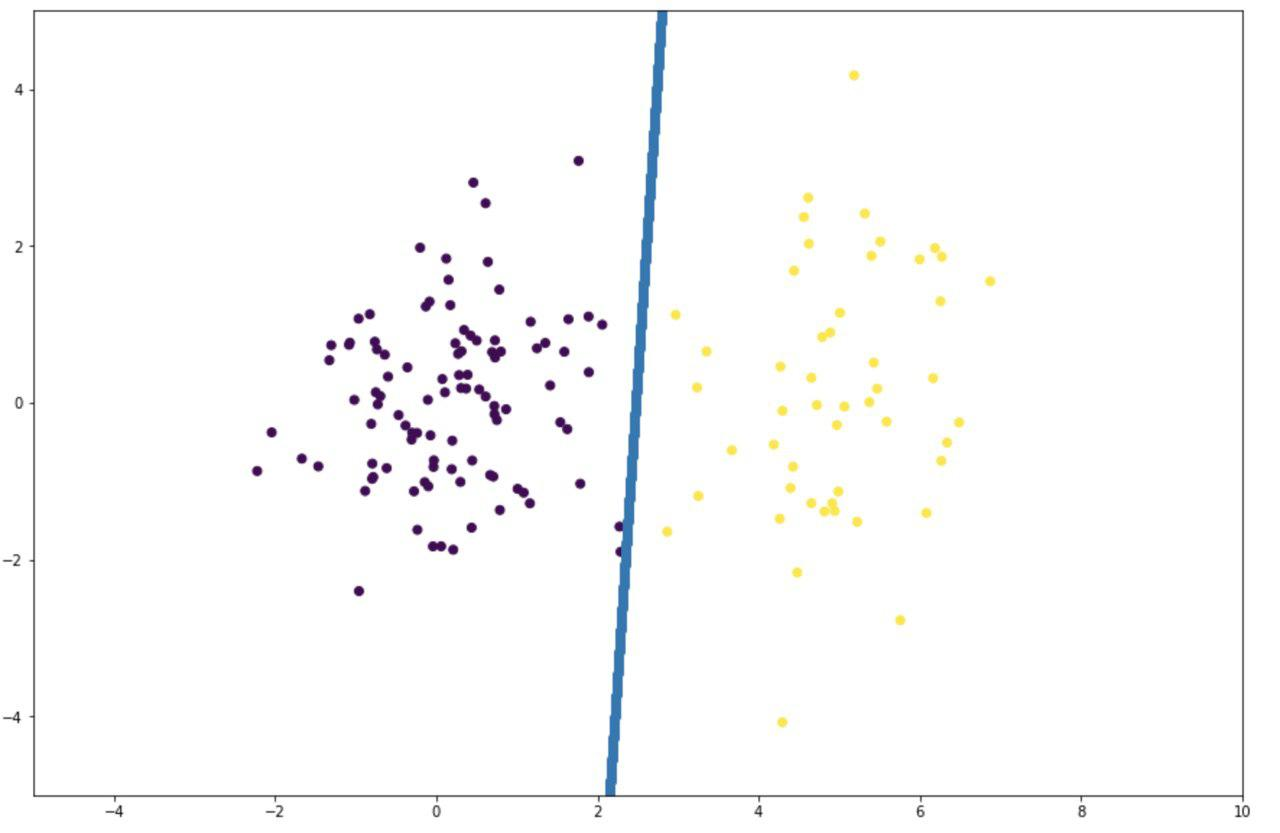
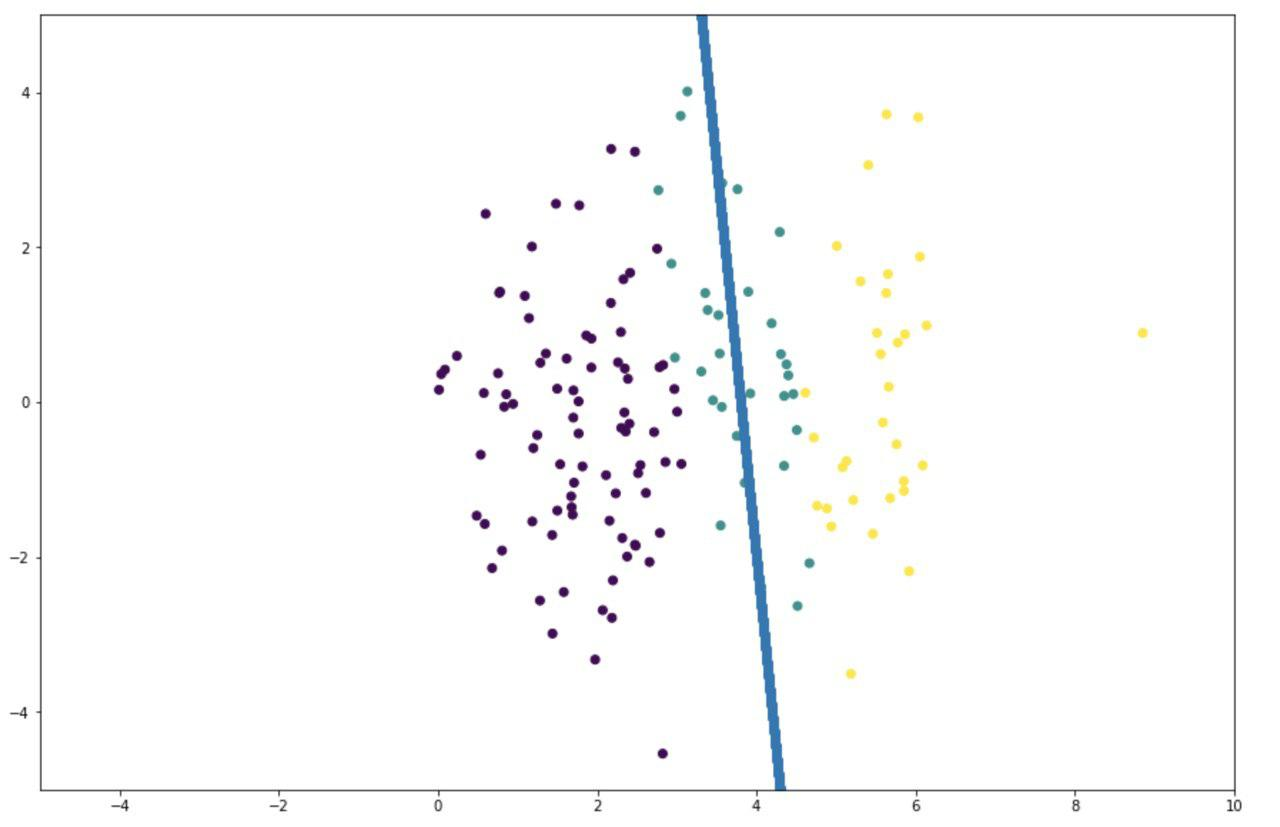
fix

diff --git a/Data.h b/Data.h
@@ -17,108 +17,67 @@ extern double TRAIN_Y[400] = {
 	1.,  1.,  1.,  1.,  1.,  1.,  1. };
 
 
-extern double TRAIN_X[2][400] = {
-	{
-		-8.30591446e-01, 7.84147636e-01, 3.77222025e-01,
-		-1.33008606e-01, 1.50964796e+00, -4.42049826e-01,
-		-5.14214505e-01, -5.23184228e-01, 2.65309673e+00,
-		1.27395254e+00, -1.48167542e-01, 1.02688355e+00,
-		1.79373581e+00, -1.46027507e+00, 8.01607174e-01,
-		5.02908477e-01, -2.91226662e-01, -5.89099046e-01,
-		1.19454835e+00, 4.67141420e-01, 6.09390872e-01,
-		9.59004860e-01, -8.85639159e-01, 4.98823189e-01,
-		9.23423580e-01, -2.03558021e-01, 3.80704882e-01,
-		4.96000968e-01, -2.10968227e-02, 9.34080155e-02,
-		-9.49819723e-01, 8.29848915e-01, 8.49449486e-02,
-		-3.76506473e-01, -1.28051612e-01, 1.15032618e+00,
-		-1.71991195e+00, -2.12675992e-01, -8.42039036e-01,
-		-2.50690343e-01, 9.41196439e-01, -1.03945512e+00,
-		1.18226247e+00, -2.23635992e+00, -6.27689764e-01,
-		-5.72366712e-01, -1.41399179e+00, 6.69032916e-01,
-		1.47386062e+00, 8.86742502e-01, -7.98105145e-01,
-		-3.16875705e-01, 2.74445899e-01, 4.69675540e-01,
-		-1.32025476e+00, 2.02484866e+00, -5.17184102e-01,
-		-6.87191607e-01, -4.30377071e-01, -1.81905480e+00,
-		-5.40659125e-01, -2.95864862e-01, -7.61067074e-01,
-		-8.93473091e-01, 4.11839291e-01, 1.04810438e+00,
-		1.01396007e+00, 1.12110443e-01, -1.47611967e-01,
-		1.02720691e+00, 4.57994934e-01, -1.14644299e+00,
-		-1.40803083e-01, -1.35461602e+00, -1.23667830e+00,
-		6.69317578e-02, 3.49209247e-01, 7.75785090e-01,
-		7.85287391e-01, -1.31696435e-01, -5.35533064e-01,
-		1.00498626e+00, 7.16264017e-01, -1.76689953e-01,
-		1.08906062e-01, -5.21399426e-01, 8.59116746e-01,
-		1.96384326e+00, 1.25273460e+00, -6.56440997e-01,
-		-1.26115706e+00, -6.31665043e-01, 1.08242757e-01,
-		-6.31729586e-01, -1.99675410e+00, -2.38223340e-01,
-		-6.02844255e-01, -8.88733866e-01, 1.54579108e+00,
-		8.29120056e-01, 3.47865219e+00, 4.39295920e+00,
-		4.78706321e+00, 3.43950916e+00, 3.93654531e+00,
-		5.16449764e+00, 3.87193362e+00, 4.92878000e+00,
-		6.01522028e+00, 5.11461585e+00, 5.57836071e+00,
-		3.24042779e+00, 5.06898085e+00, 4.25556027e+00,
-		4.26287598e+00, 5.97550638e+00, 5.54713731e+00,
-		5.13605771e+00, 6.96534066e+00, 5.11871576e+00,
-		4.37135065e+00, 4.82980173e+00, 4.75365627e+00,
-		3.39689602e+00, 4.46280141e+00, 3.69873147e+00,
-		4.78774472e+00, 4.17114977e+00, 3.60755093e+00,
-		4.83418133e+00, 4.49328651e+00, 4.91565567e+00,
-		4.70807830e+00, 4.74982945e+00, 5.01687558e+00,
-		4.49006277e+00, 4.92226974e+00, 6.22488508e+00,
-		5.02561621e+00, 4.90115420e+00, 4.77562057e+00,
-		6.13244202e+00, 6.05955308e+00, 4.63325810e+00,
-		5.99589907e+00, 5.61549582e+00, 5.55987656e+00,
-		6.52949334e+00, 2.73699878e+00, 4.04351096e+00 },{
-			-9.53332926e-01, -4.48465156e-02, -1.43123917e-01,
-			-5.35187418e-01, -3.31959102e-01, -3.87086926e-01,
-			-1.92707956e+00, -3.60527800e-01, 2.01113710e-01,
-			-3.53562115e-01, -1.47613346e+00, -8.74980542e-01,
-			-7.52933344e-02, 5.62007112e-01, 7.18544813e-01,
-			-1.39021210e+00, 1.46340358e+00, -5.15564533e-01,
-			-6.06729037e-01, -1.11438097e+00, 8.05169771e-02,
-			-7.79944085e-03, 1.52770603e+00, 1.15237701e+00,
-			-6.90617165e-01, 1.43459276e+00, 1.01657993e+00,
-			7.23608764e-01, -4.70862790e-01, -1.17075912e+00,
-			7.62976181e-02, -1.44476252e+00, -4.62138635e-01,
-			1.43153235e-01, 5.36447853e-02, 3.25006164e+00,
-			2.28511735e+00, 6.97242804e-02, -8.96889552e-01,
-			4.29534112e-01, 6.20523532e-01, 5.00887707e-01,
-			2.45196184e-01, -3.81910813e-02, -6.02717131e-01,
-			-6.16793306e-01, 2.76128941e-01, -3.60765062e-01,
-			-6.39519542e-01, -1.05992244e-01, 2.74030188e-01,
-			1.67326201e+00, -1.53086084e+00, 1.46563088e-01,
-			-9.35173593e-01, -2.36665757e-01, 2.25262842e-01,
-			-1.14894456e+00, 5.16666615e-01, 9.53415590e-01,
-			-1.50352073e-01, -1.20104253e+00, -2.68114199e-01,
-			-4.78919593e-01, 2.79146409e-01, -2.23715075e-01,
-			-1.97800733e-01, 6.30381785e-03, 9.07111219e-01,
-			-1.23446961e+00, -4.39213402e-01, 1.80332120e+00,
-			-8.84470413e-01, 7.44687153e-02, 8.02818841e-03,
-			6.52982542e-01, 5.36928894e-01, 2.93617033e-01,
-			-8.40178867e-01, 2.40103428e-01, 1.39675393e+00,
-			-5.73710642e-01, 2.03617721e+00, -3.60470182e-01,
-			-1.54404476e+00, -6.85070900e-01, 6.88030831e-01,
-			-1.20092682e+00, -7.05950589e-01, -1.08640672e+00,
-			-1.22171553e+00, -1.97405146e+00, 8.37238918e-01,
-			1.82271822e-01, 9.47209826e-01, -1.06456332e+00,
-			7.32170791e-01, -9.37128061e-01, -2.25221481e-01,
-			-1.77957095e+00, -1.44823489e+00, -2.95770401e-01,
-			1.13300927e-03, -9.59403325e-01, -3.98144352e-01,
-			1.50800457e+00, 6.47717971e-01, -1.76663043e+00,
-			-3.26754263e+00, 1.81665105e+00, -1.08934820e+00,
-			2.34412502e+00, -8.54501847e-01, -4.51392056e+00,
-			1.27176788e-01, 6.45330733e-01, 7.77669423e-01,
-			2.57254464e-01, -2.39062232e+00, -1.51341885e+00,
-			-5.77864619e-01, 1.67288500e+00, -2.97927339e+00,
-			1.90958088e+00, 1.18167151e+00, -9.24501944e-01,
-			3.47118559e-01, 2.19893389e-01, 2.59239184e+00,
-			-3.64755227e+00, -1.83100709e+00, 3.12315569e+00,
-			1.04657472e+00, 1.23521016e+00, 2.52841213e+00,
-			-1.13352001e+00, 1.73319250e+00, -4.62813044e-01,
-			6.75820022e-01, -4.14624088e-01, -1.87252140e+00,
-			-1.45467315e+00, -3.35333767e+00, -1.66331135e+00,
-			-1.41224244e-01, -9.63151988e-01, 1.54184888e+00,
-			-6.99436570e-01, -4.01239327e-01, 1.82411628e-01 } };
+extern double TRAIN_X[2][400] = 
+{ {1.8617357, 3.52302986, 1.76586304, 2.76743473, 2.54256004,
+1.53427025, 0.08671976, 1.43771247, 2.31424733, 0.5876963,
+1.7742237, 0.57525181, 2.11092259, 2.37569802, 1.70830625,
+3.85227818, 0.94228907, 0.77915635, 0.04032988, 2.19686124,
+2.17136828, 1.6988963, 1.28015579, 3.05712223, 0.23695984,
+1.61491772, 2.61167629, 2.93128012, 1.69078762, 2.97554513,
+1.81434102, 0.80379338, 3.35624003, 3.0035329, 1.35488025,
+3.53803657, 3.56464366, 2.8219025, 1.70099265, 0.01243109,
+2.35711257, 1.48172978, 1.49824296, 2.32875111, 2.51326743,
+2.96864499, 1.67233785, 0.53648505, 2.26105527, 1.76541287,
+1.57935468, 1.19772273, 2.40405086, 2.17457781, 1.92555408,
+1.97348612, 4.46324211, 2.30154734, 0.83132196, 2.75193303,
+1.09061255, 0.59814894, 4.19045563, 1.43370227, 1.49652435,
+2.06856297, 2.47359243, 3.54993441, 1.67793848, 0.76913568,
+3.30714275, 2.18463386, 2.78182287, 0.67954339, 2.29698467,
+2.34644821, 2.2322537, 1.28564858, 2.47383292, 2.65655361,
+2.7870846, 1.17931768, 2.41278093, 3.89679298, 1.24626384,
+1.18418972, 2.34115197, 2.82718325, 3.45353408, 4.72016917,
+1.14284244, 2.48247242, 2.71400049, 1.92717109, 0.48515278,
+2.85639879, 0.75426122, 2.38531738, 2.15372511, 0.8570297,
+5.56078453, 6.05380205, 4.06217496, 5.51378595, 8.85273149,
+6.13556564, 5.65139125, 5.75896922, 4.76318139, 5.08187414,
+3.13273481, 3.38728413, 6.0889506, 3.92225522, 5.67959775,
+5.21645859, 4.34839965, 5.63391902, 5.18645431, 5.85243333,
+4.88526356, 5.86575519, 4.66549876, 4.34667077, 5.40498171,
+5.91786195, 6.03246526, 4.51576593, 4.29233053, 5.77463405,
+4.94047464, 3.97561236, 3.75221682, 3.56985862, 5.13074058,
+3.56413785, 5.01023306, 5.46210347, 4.39978312, 4.6146864,
+5.66213067, 3.7621845, 3.0479122, 5.58831721, 4.37730048,
+4.50699907, 5.8496021, 4.3070904, 5.30729952, 5.62962884},
+{0.86033415, 1.12182946, -0.40556554, 2.73527683, -0.81315349,
+-0.80266299, 0.41909095, -2.98764532, -1.75427496, -1.57274383,
+2.53857813, 0.11696228, -0.94289854, -1.99357936, -1.04033673,
+-1.04218642, -0.02337788, 1.42468958, 0.36176236, -2.30048572,
+1.27906164, -0.2003087, -2.56087521, -0.79784976, 0.59516434,
+0.5613299, -1.1724633, 1.78574356, -1.45356739, 0.57376509,
+-0.82995413, -1.91622839, 1.40733601, -0.12472519, 0.62637197,
+0.62595555, -0.06205252, -4.53753162, 0.15076994, 0.15893433,
+-0.38048287, 2.55978757, -1.400352, 1.58552298, -0.91757159,
+0.16814325, -1.21599163, -0.67915124, 0.51289537, 0.00885677,
+-2.45149404, -0.59359896, -0.27935505, 3.26696981, 0.44609036,
+-3.32340923, 0.10432178, -0.33317896, -0.06012255, 1.97942718,
+1.37010752, 2.42971102, 1.0164663, -1.71565924, 0.17260123,
+-2.68582785, -1.83996401, -1.59248949, -1.3566345, 1.40905315,
+0.39397216, -2.78424263, 0.4501302, -2.14246148, 0.90402931,
+0.43386634, -1.17783737, 0.50761641, 3.23161625, -2.06339818,
+-1.68819817, 2.00674641, 1.6686164, 1.42384996, -0.42502468,
+-1.54068419, -0.13354408, 0.47924252, 0.02251994, -0.45839908,
+1.08368763, -1.85484022, -0.3870489, 0.81967161, -1.46668974,
+-0.77338658, 0.37082124, 0.29995816, -1.53088599, 0.10082046,
+0.61970589, 1.87589978, -2.38619334, 0.89206725, 0.89208876,
+0.98881137, 1.65237952, -0.54606235, -1.33857254, -0.84067432,
+4.00910624, 1.18863752, -0.81740997, 0.11133626, -1.23894237,
+-1.26503211, 0.07893274, 3.71342009, -3.50764985, -1.14624778,
+-1.37268619, 0.87466362, -2.07897436, -0.82262941, 3.05785644,
+-2.18391507, 3.67568235, -2.63162598, 2.19435448, 0.7687178,
+-1.60549067, -5.61403971, -0.43746087, 2.82741932, -0.76217941,
+2.49635856, 2.01465872, -1.70002285, 0.34478151, 0.12090076,
+0.19661781, 2.74706171, 3.69452218, -0.2628995, 0.48669219,
+-0.36047831, -1.0208097, 0.61836896, 1.55815269, 1.40791849} };
 
 
 NN::CMatrix trainX_to_matrix() {

diff --git a/SVM.cpp b/SVM.cpp
@@ -38,10 +38,12 @@ namespace NN {
 		double margin = this->get_margin();
 
 		for (int i = 0; i < predicted.nrow; ++i) {
-			if (std::abs(predicted[i][0]) < margin / 2) {
+			double pred = predicted[i][0];
+
+			if (std::abs(pred) < margin / 2) {
 				predicted[i][0] = 0;
 			}
-			else if(predicted[0][i] < 0){
+			else if(pred < 0.){
 				predicted[i][0] = -1;
 			}
 			else {
